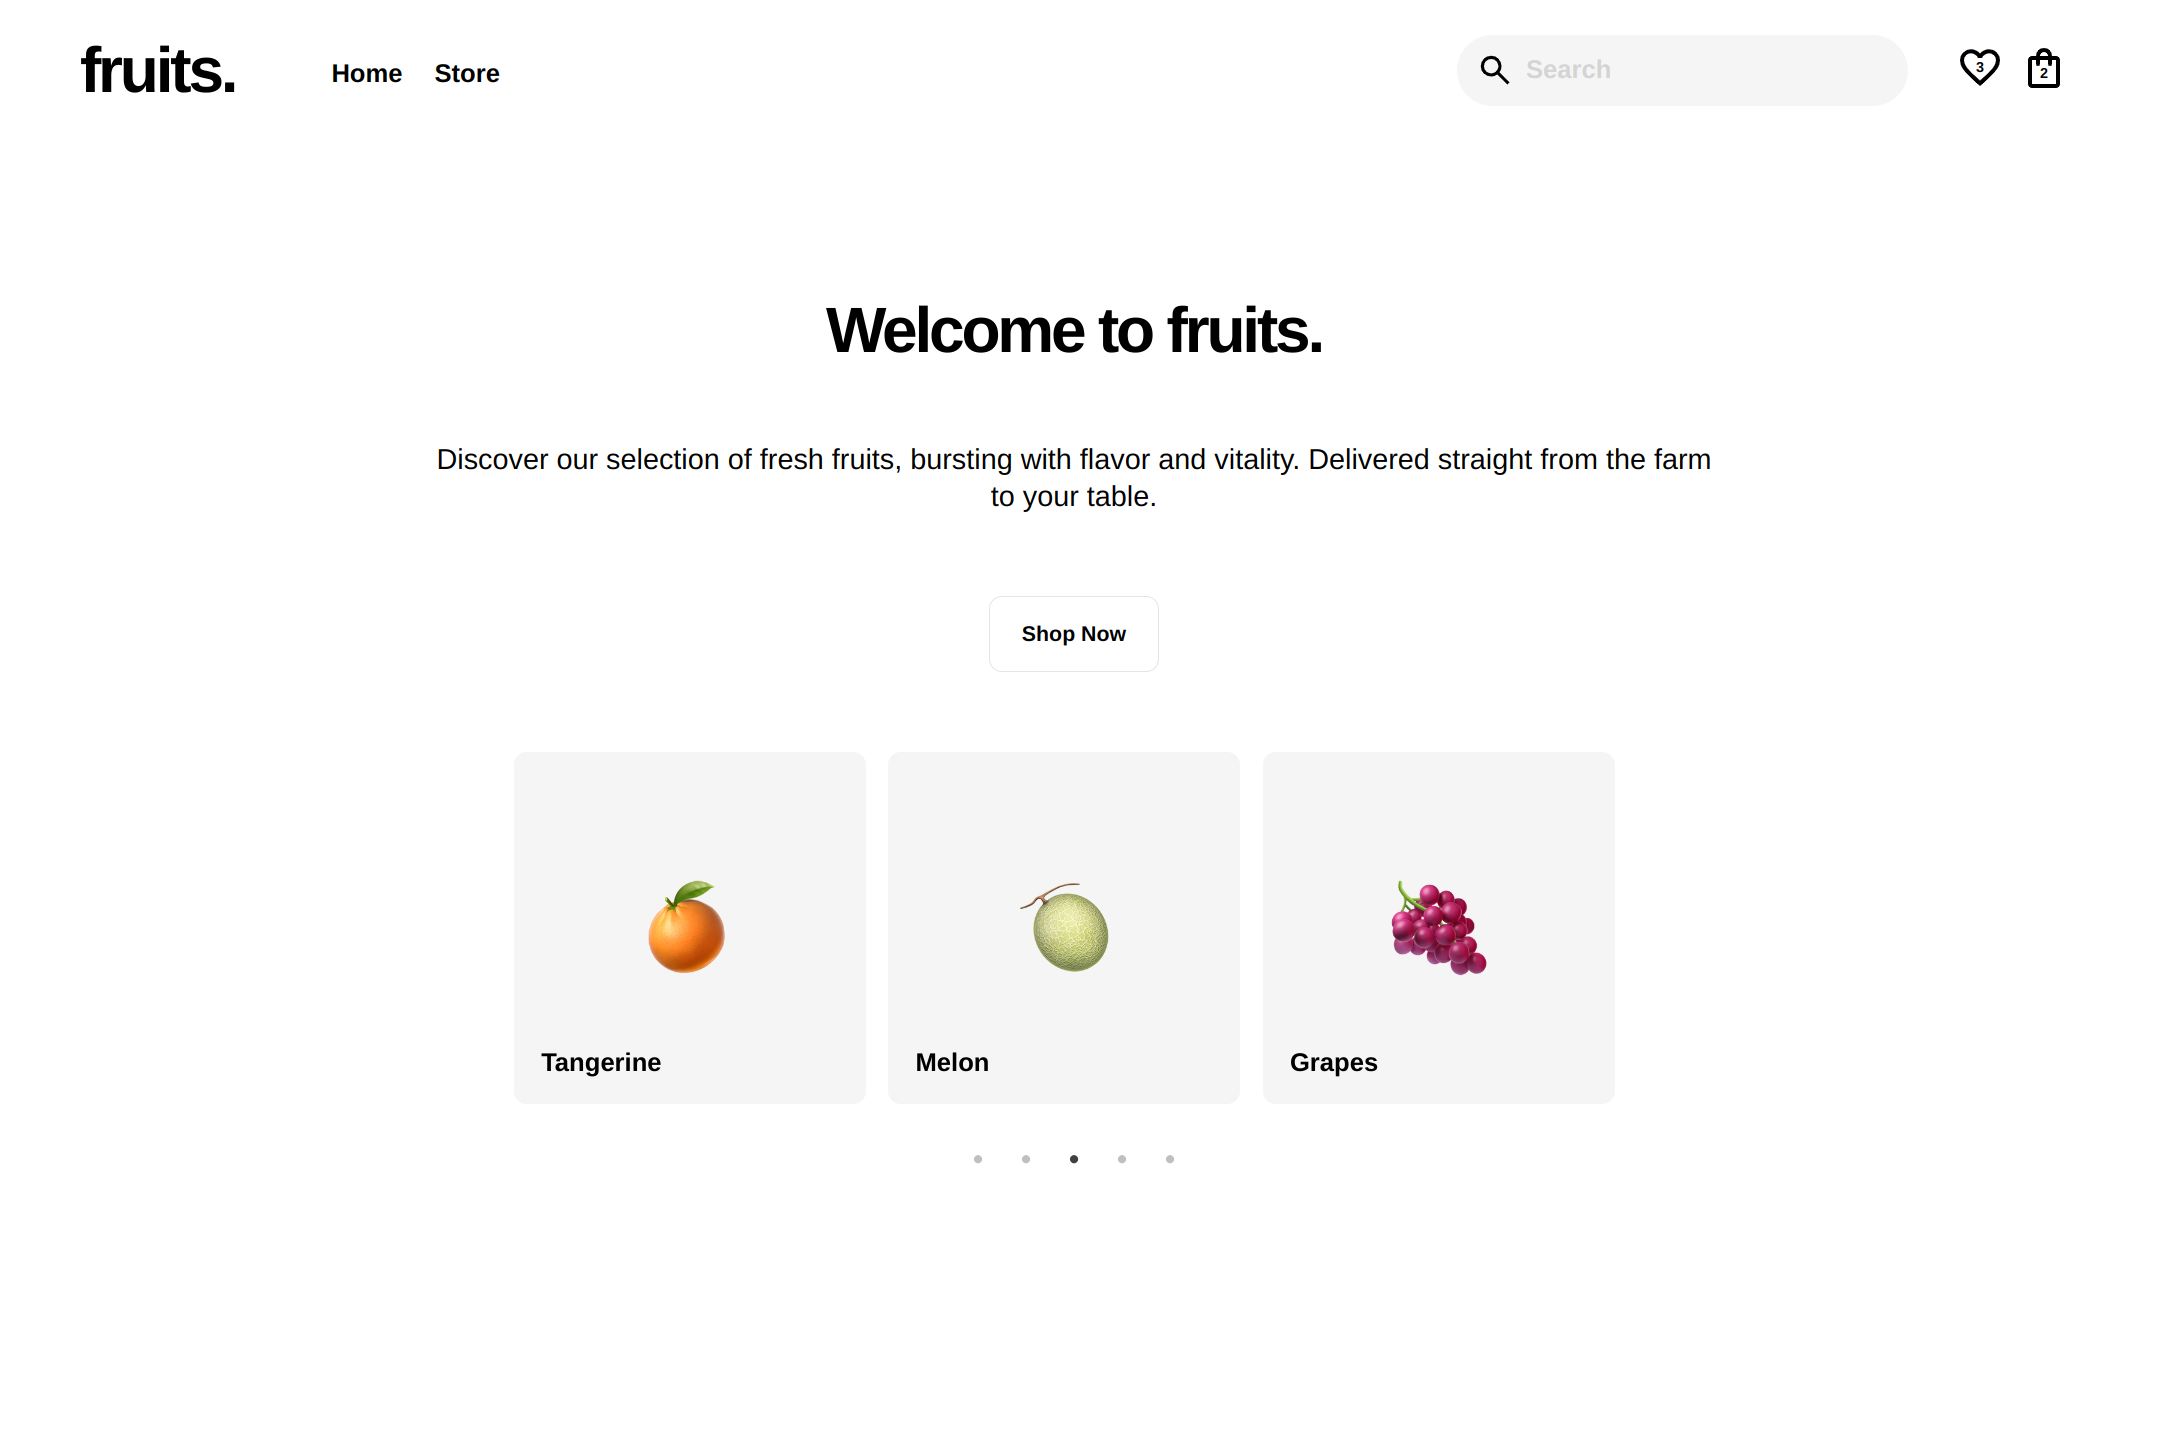
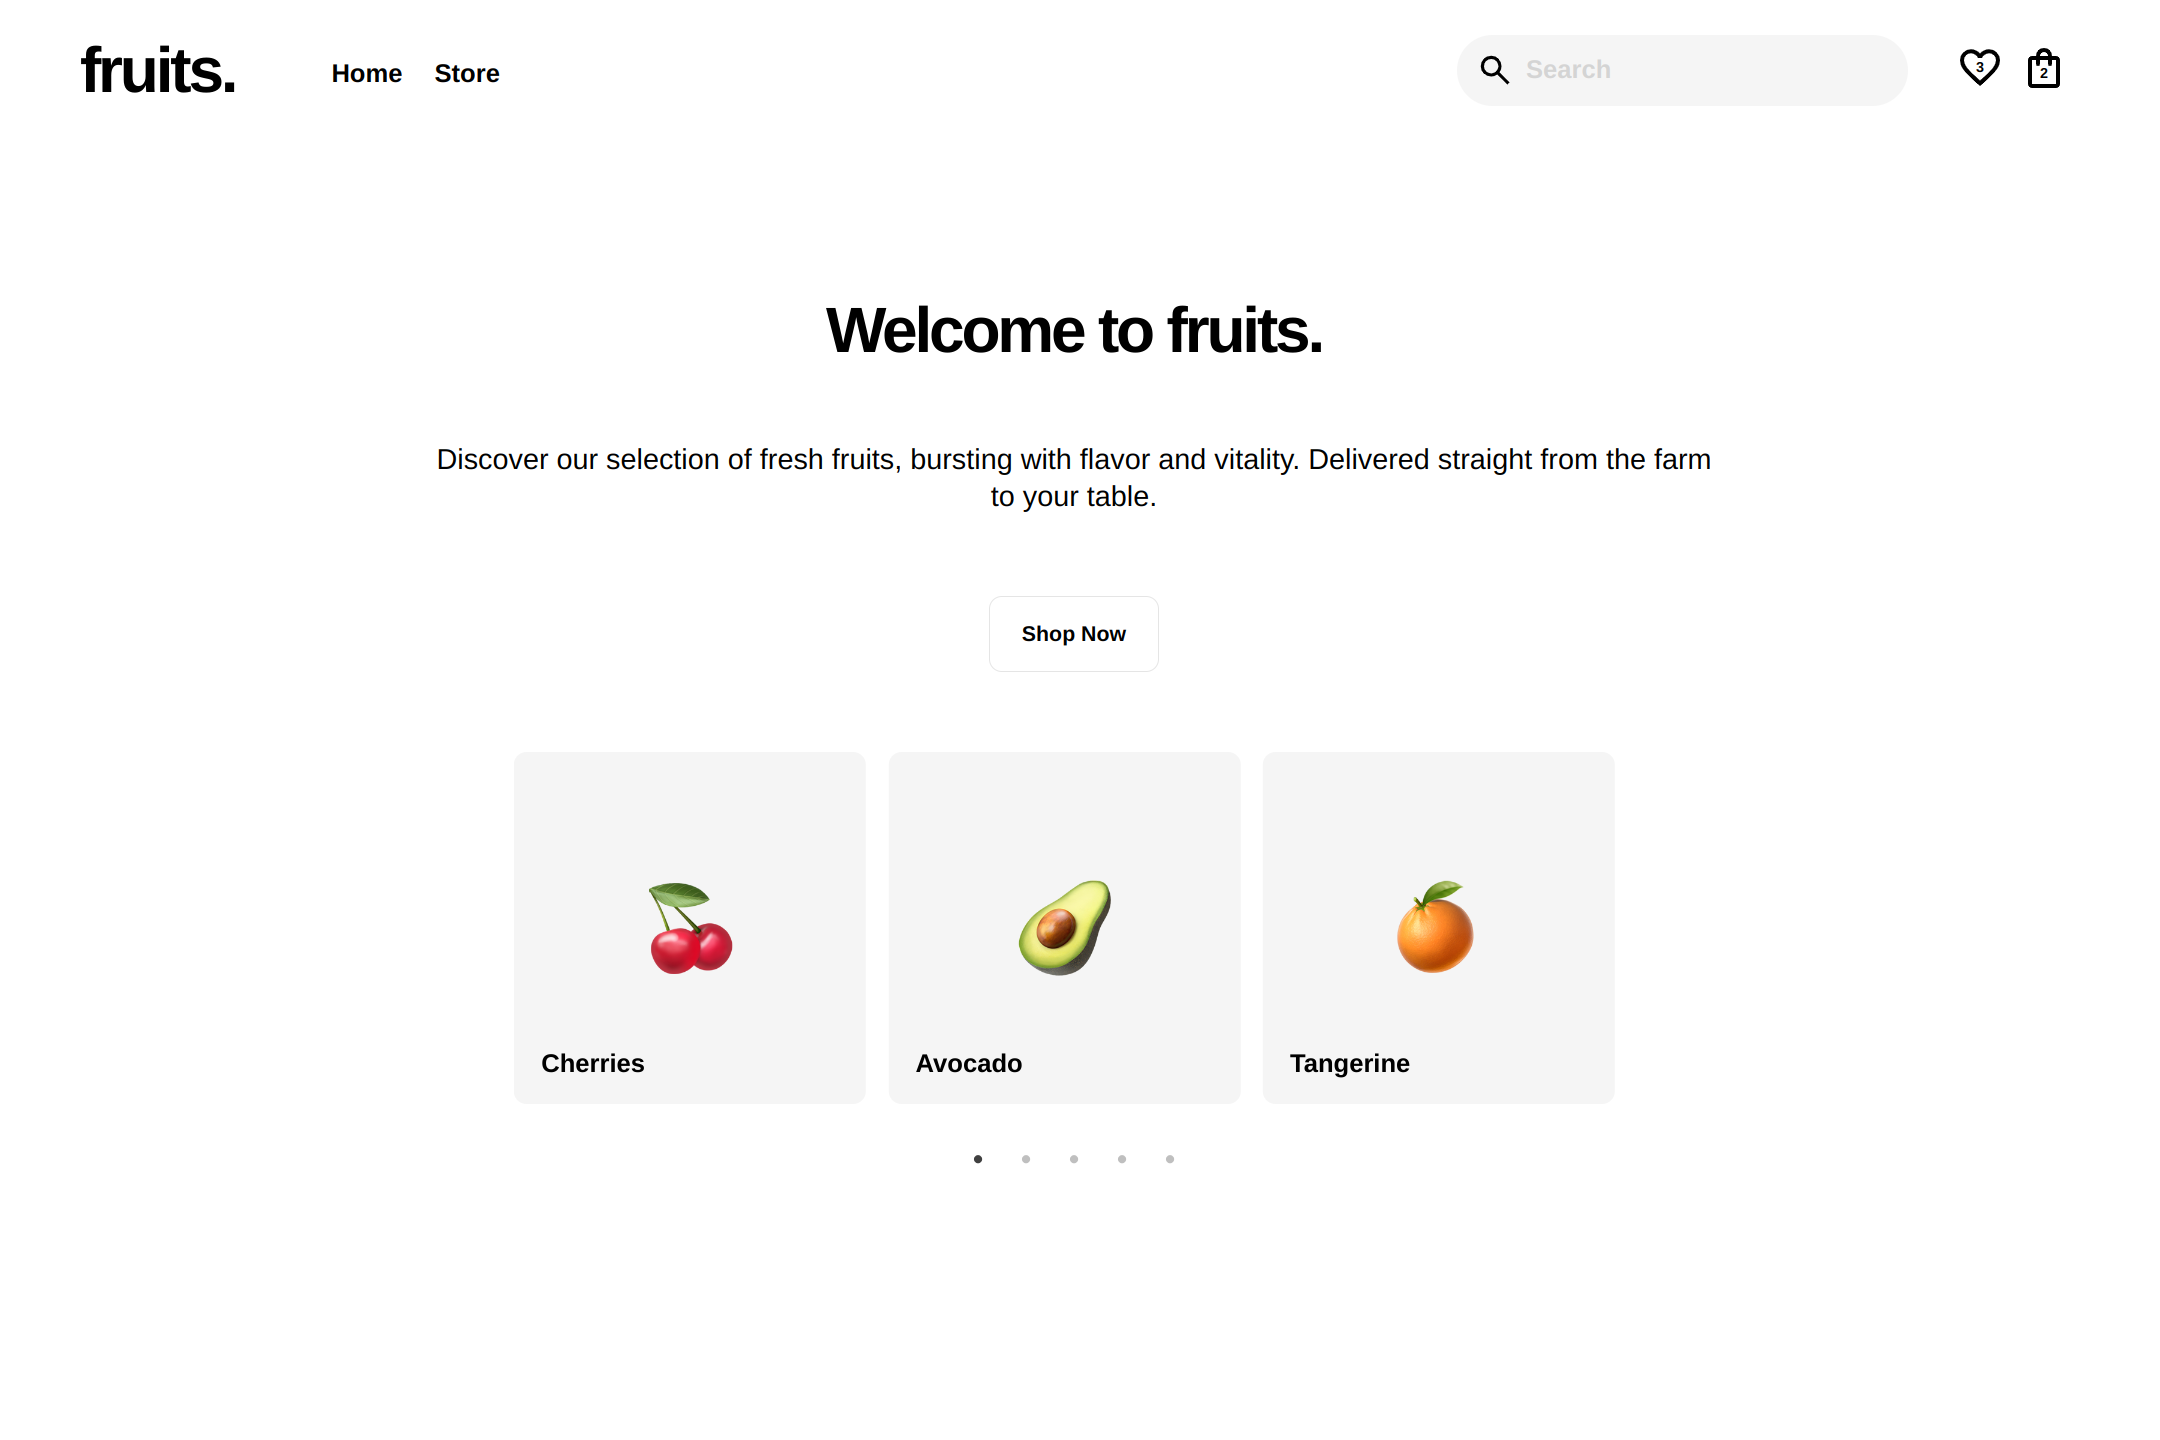
Update README & screenshot

diff --git a/README.md b/README.md
@@ -20,6 +20,7 @@ Powerful and lightweight fruits e-commerce store.
 ## Features
 
 - Home, Store, Fruit, and Bag pages
+- Home page carousel
 - Fruit Filtering
 - Add to Bag or Favorites
 - Bag Preview on hover
@@ -82,7 +83,7 @@ The app uses the following state data, shared througout the whole app using Cont
 
 #### 1. `Fruit` Object
 
-Represents each fruit in the store. All fruit objects are stored in a `fruits` array. Example:
+Represents each fruit in the store. All fruit objects are stored in a n`fruits` array. Example:
 
 ```javascript
 {
@@ -125,7 +126,7 @@ Represents all the filters and their active or inactive state. Example:
 }
 ```
 
-The app is constantly reading, rendering and updating this data according to user interactions, ensuring the app reflects the state correctly at all times.
+The app is constantly reading, rendering and updating this data according to user interactions, ensuring the it reflects the state correctly at all times.
 
 #### How does the filtering functionality work?
 
